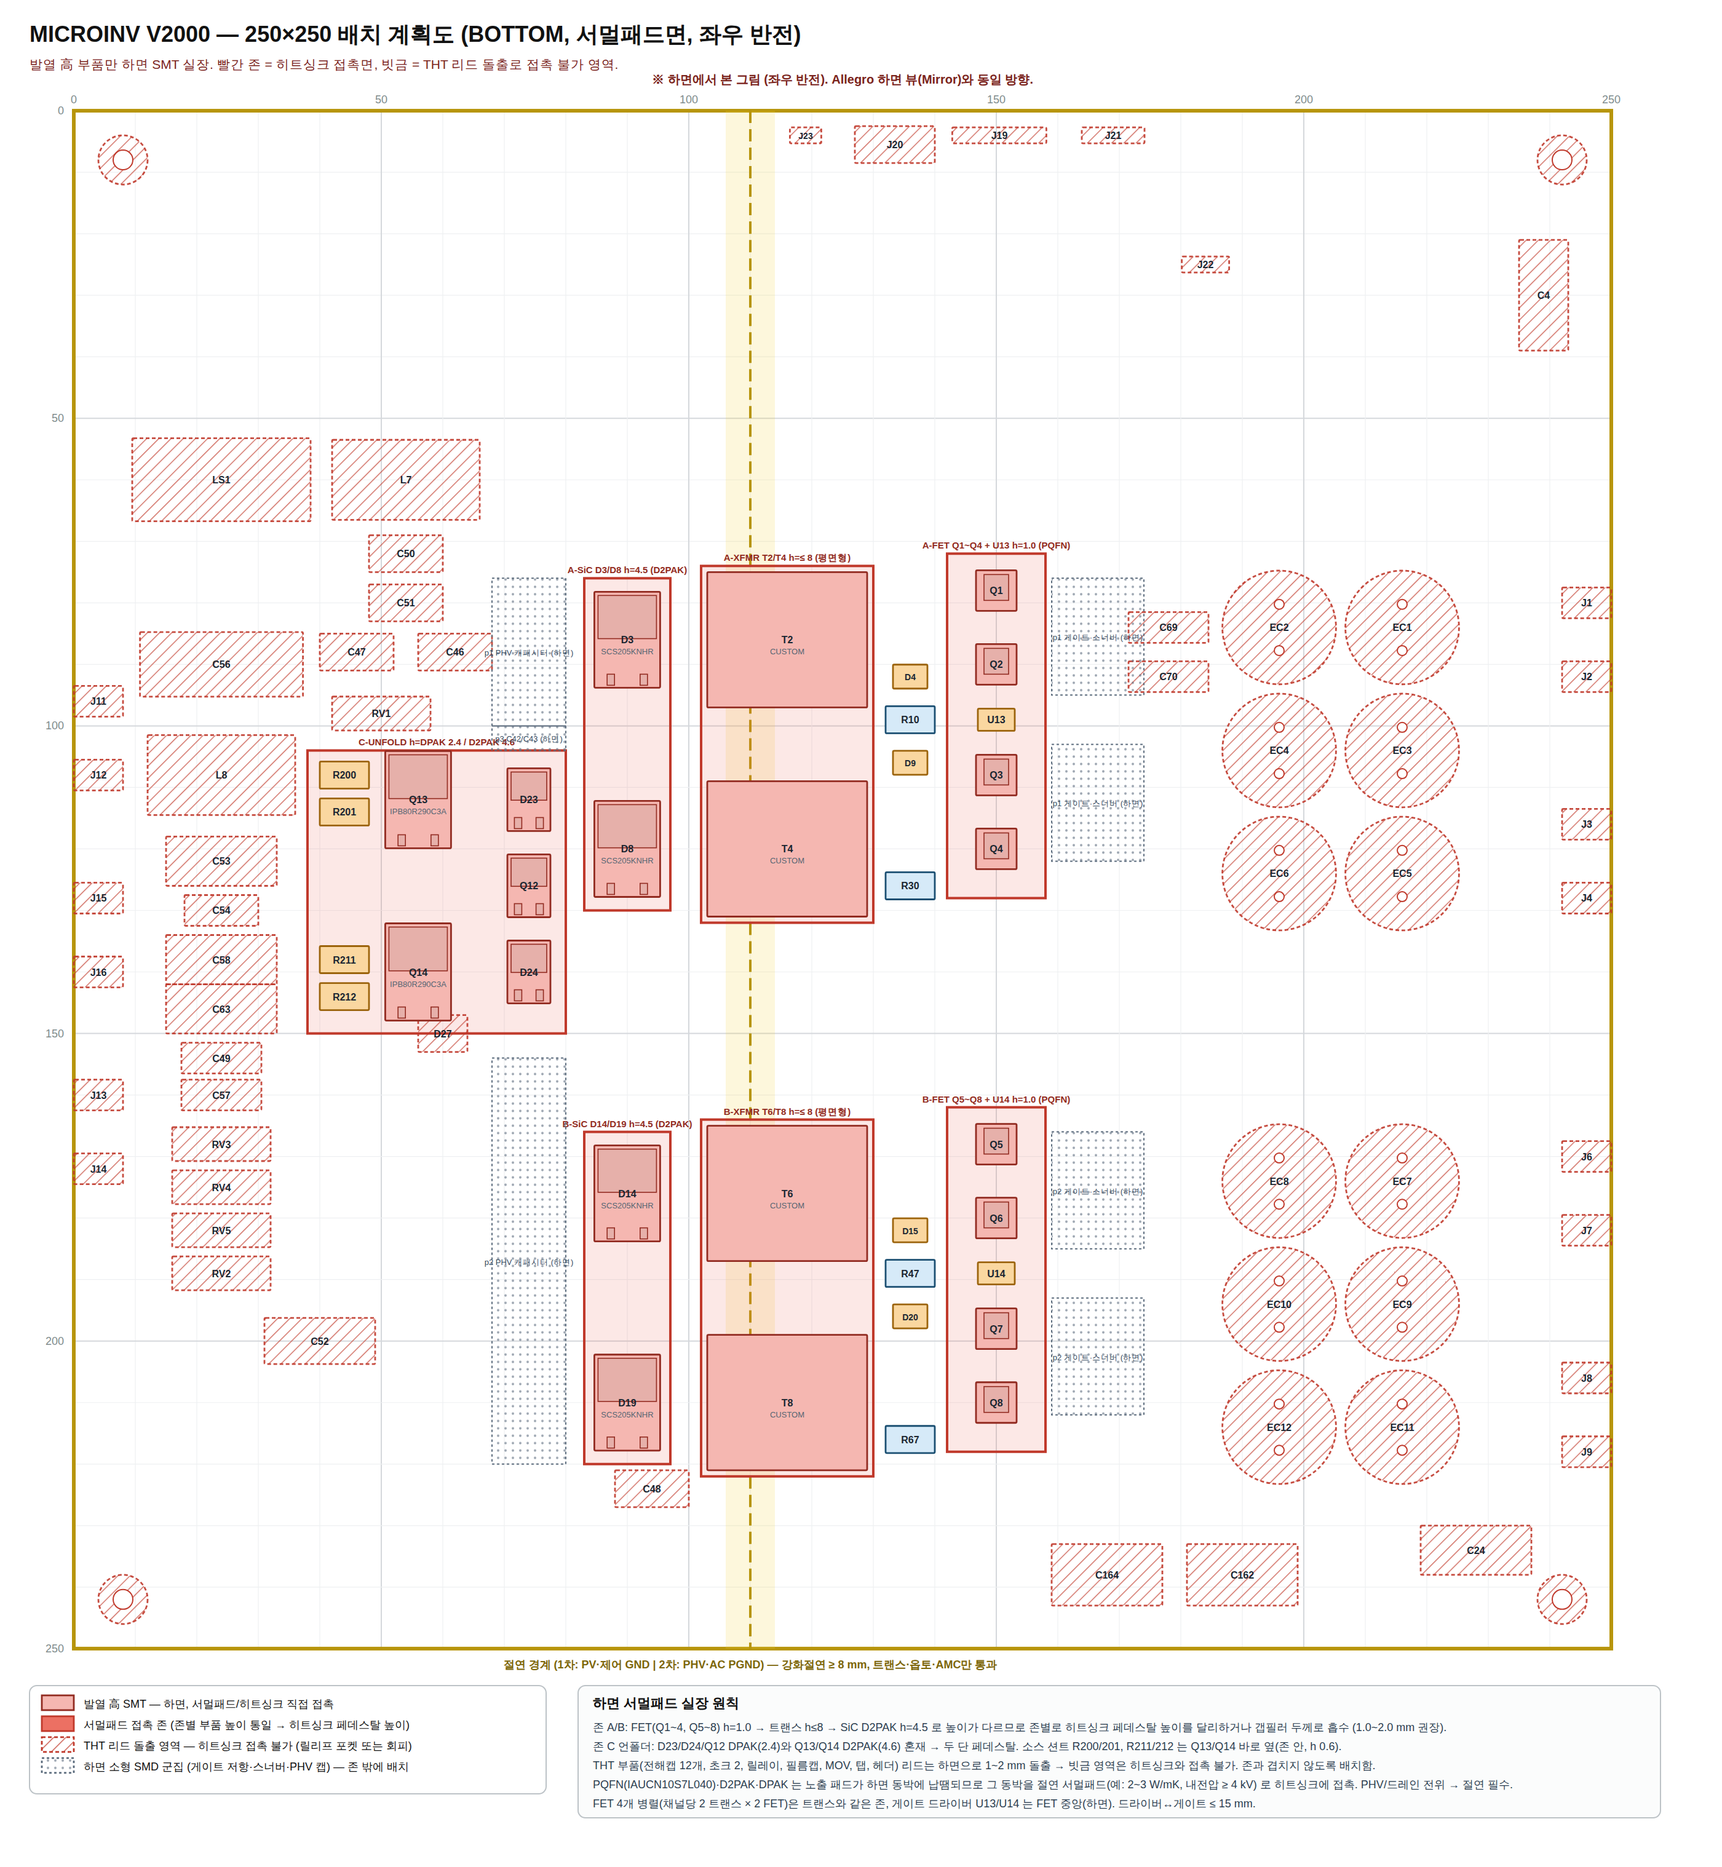
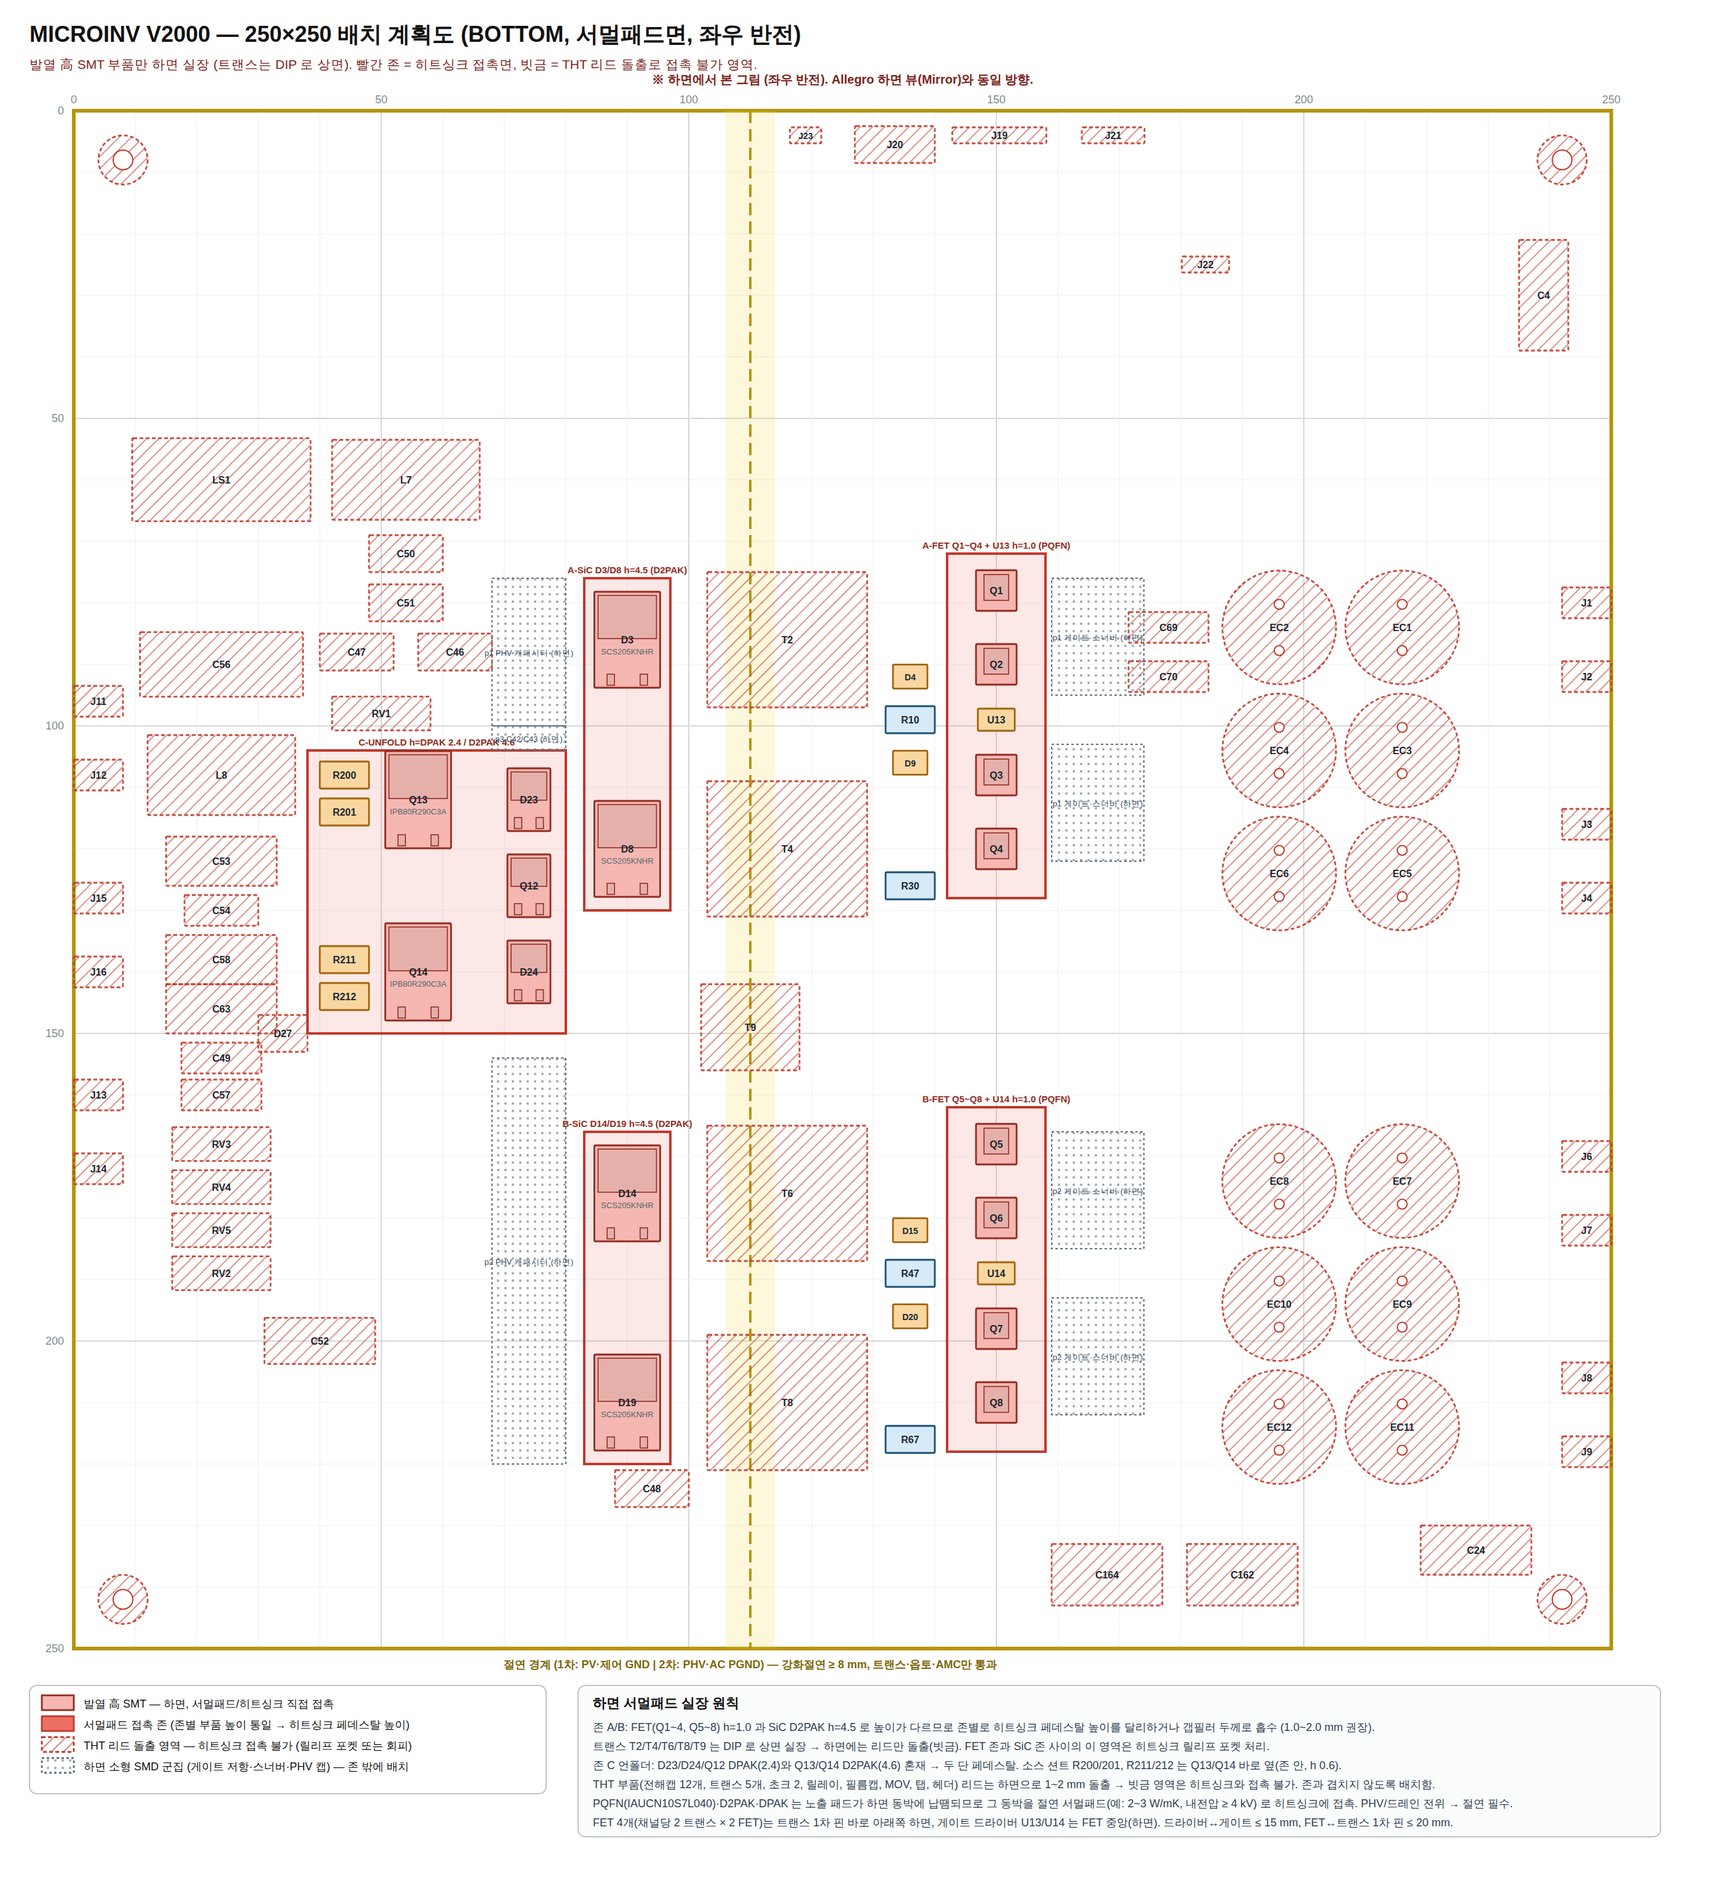
Move DIP transformers T2/T4/T6/T8/T9 to the top side
Reclassify the five CUSTOM transformers as through-hole parts on the top
side, drop the bottom-side transformer thermal zones, mark their lead
areas as heatsink relief on the bottom view, and update the counts and
notes in the README, CSV and placement draft.

Claude-Session: https://claude.ai/code/session_01G1AAHEhECbTe4wCo2m36hC

diff --git a/pcb/microinv_v2000/floorplan.py b/pcb/microinv_v2000/floorplan.py
@@ -79,7 +79,7 @@ put('D2', 72, 78); put('C69', 72, 84); put('C70', 72, 92)
 put('T1', 114, 82); put('T3', 114, 114)
 put('Q1', 100, 78, 0, 'BOTTOM'); put('Q2', 100, 90, 0, 'BOTTOM'); put('Q3', 100, 108, 0, 'BOTTOM'); put('Q4', 100, 120, 0, 'BOTTOM')
 put('U13', 100, 99, 0, 'BOTTOM')
-put('T2', 134, 86, 0, 'BOTTOM', 26, 22); put('T4', 134, 120, 0, 'BOTTOM', 26, 22)
+put('T2', 134, 86, 0, 'TOP', 26, 22); put('T4', 134, 120, 0, 'TOP', 26, 22)
 put('D3', 160, 86, 0, 'BOTTOM'); put('D8', 160, 120, 0, 'BOTTOM')
 put('D4', 114, 92, 0, 'BOTTOM'); put('D9', 114, 106, 0, 'BOTTOM')
 # --- aux band (primary side) ---
@@ -93,7 +93,7 @@ put('D13', 72, 168)
 put('T5', 114, 172); put('T7', 114, 204)
 put('Q5', 100, 168, 0, 'BOTTOM'); put('Q6', 100, 180, 0, 'BOTTOM'); put('Q7', 100, 198, 0, 'BOTTOM'); put('Q8', 100, 210, 0, 'BOTTOM')
 put('U14', 100, 189, 0, 'BOTTOM')
-put('T6', 134, 176, 0, 'BOTTOM', 26, 22); put('T8', 134, 210, 0, 'BOTTOM', 26, 22)
+put('T6', 134, 176, 0, 'TOP', 26, 22); put('T8', 134, 210, 0, 'TOP', 26, 22)
 put('D14', 160, 176, 0, 'BOTTOM'); put('D19', 160, 210, 0, 'BOTTOM')
 put('D15', 114, 182, 0, 'BOTTOM'); put('D20', 114, 196, 0, 'BOTTOM')
 put('C162', 60, 238); put('C164', 82, 238)
@@ -108,7 +108,7 @@ put('Q13', 194, 112, 0, 'BOTTOM'); put('Q14', 194, 140, 0, 'BOTTOM')
 put('R200', 206, 108, 0, 'BOTTOM'); put('R201', 206, 114, 0, 'BOTTOM'); put('R211', 206, 138, 0, 'BOTTOM'); put('R212', 206, 144, 0, 'BOTTOM')
 put('U1', 176, 126)  # top, gate logic for Q13/Q14
 put('R79', 160, 110); put('R81', 160, 116); put('R188', 160, 122); put('R82', 160, 130); put('R83', 160, 136)
-put('D25', 152, 150); put('D26', 158, 150); put('D27', 190, 150); put('D28', 176, 150); put('Q9', 182, 150)
+put('D25', 152, 150); put('D26', 158, 150); put('D27', 216, 150); put('D28', 176, 150); put('Q9', 182, 150)
 # --- AC filter / output (top, mostly THT) ---
 put('TH1', 188, 98); put('RV1', 200, 98); put('C46', 188, 88); put('C47', 204, 88)
 put('C50', 196, 72); put('C51', 196, 80); put('L7', 196, 60); put('LS1', 226, 60)
@@ -138,8 +138,8 @@ CLUSTERS = [
 ]
 # ---- thermal-pad contact zones on the BOTTOM (top-view coords): (x1,y1,x2,y2,label,height) ----
 ZONES = [
- (92, 72, 108, 128, 'A-FET  Q1~Q4 + U13', '1.0 (PQFN)'), (120, 74, 148, 132, 'A-XFMR T2/T4', '≤ 8 (평면형)'), (153, 76, 167, 130, 'A-SiC D3/D8', '4.5 (D2PAK)'),
- (92, 162, 108, 218, 'B-FET  Q5~Q8 + U14', '1.0 (PQFN)'), (120, 164, 148, 222, 'B-XFMR T6/T8', '≤ 8 (평면형)'), (153, 166, 167, 220, 'B-SiC D14/D19', '4.5 (D2PAK)'),
+ (92, 72, 108, 128, 'A-FET  Q1~Q4 + U13', '1.0 (PQFN)'), (153, 76, 167, 130, 'A-SiC D3/D8', '4.5 (D2PAK)'),
+ (92, 162, 108, 218, 'B-FET  Q5~Q8 + U14', '1.0 (PQFN)'), (153, 166, 167, 220, 'B-SiC D14/D19', '4.5 (D2PAK)'),
  (170, 104, 212, 150, 'C-UNFOLD', 'DPAK 2.4 / D2PAK 4.6'),
 ]
 BARRIER_X = 140.0
@@ -149,9 +149,10 @@ ANT_KEEPOUT = (20, 0, 50, 10)
 HIGH = {'Q1','Q2','Q3','Q4','Q5','Q6','Q7','Q8','Q12','Q13','Q14','D3','D8','D14','D19','D23','D24','T2','T4','T6','T8'}
 MED = {'Q10','T9','U13','U14','U15','L12','D4','D9','D15','D20','D2','D13','R6','R43','R79','R81','R188','R82','R83','R90','R96','R106',
        'R200','R201','R211','R212','R219','R228','L7','L8','LS1','D25','D26','TH1','RV1','RV2','RV3','RV4','RV5','T1','T3','T5','T7'} | {f'EC{i}' for i in range(1, 13)}
+THT_REFS = {'T2', 'T4', 'T6', 'T8', 'T9'}  # DIP 타입 트랜스포머 (사용자 확인)
 def mount(ref):
     psm = parts[ref]['psm']
-    if psm in THT_PSM: return 'THT'
+    if psm in THT_PSM or ref in THT_REFS: return 'THT'
     if psm == 'USB-C_16PIN': return 'SMT(+THT 고정핀)'
     return 'SMT'
 def heat(ref):
@@ -225,6 +226,14 @@ def draw_part(ref, mirror, ghost=False, tht_mark=False):
         out.append(rect_px(X(x - 2.0), Y(y - 2.6), 4.0 * SC, 4.2 * SC, fill='#e6b0aa', stroke=stroke, stroke_width=0.8))
     if not ghost and not tht_mark and psm == '250T-1':
         out.append(rect_px(X(x - (w / 2 + 2.5) if not mirror else x + w / 2 - 0.5), Y(y - 1.2), 3.0 * SC, 2.4 * SC, fill='#aab7b8', stroke='#566573', stroke_width=0.8))
+    if not ghost and not tht_mark and ref in THT_REFS:
+        n = parts[ref]['npins']; per_side = max(2, n // 2)
+        for i in range(per_side):
+            py = y - (per_side - 1) * 2.5 / 2 + i * 2.5
+            for px in (x - w / 2 + 2.0, x + w / 2 - 2.0):
+                out.append(circ_px(X(px), Y(py), 0.9 * SC, fill='#fff', stroke=stroke, stroke_width=1))
+        out.append(text(X(x - w / 2 + 2.0), Y(y - h / 2) - 3, '1차', size=6, fill='#7d6608'))
+        out.append(text(X(x + w / 2 - 2.0), Y(y - h / 2) - 3, '2차', size=6, fill='#7d6608'))
     if not ghost and not tht_mark and psm == 'ESP32-S3':
         out.append(rect_px(X(x - w / 2), Y(y - h / 2), w * SC, 6.0 * SC, fill='#f9e79f', stroke=stroke, stroke_width=0.8))
         out.append(text(X(x), Y(y - h / 2 + 4), '안테나', size=7, fill='#7d6608'))
@@ -342,7 +351,7 @@ def top_view():
         parts_svg.append(text(X(0) - 28, Y((y1 + y2) / 2), lab, size=8, anchor='middle', fill='#1a5276', weight='bold', rot=-90))
     for (x, y, lab) in [(150, 30, '2차측 게이트 로직 (p8)'), (150, 75.5, 'PHV 정류 (하면 D3/D8, D14/D19)'), (204, 38, 'AC 필터·릴레이·보호 (THT, 상면)'), (150, 220, '그리드 센싱 (AMC3301/3302, 절연 경계)')]:
         parts_svg.append(text(X(x), Y(y), lab, size=7.5, anchor='start', fill='#1a5276', weight='bold'))
-    leg = legend([('#f5b7b1', '#922b21', 'none', '발열 高 → 하면 실장, 서멀패드 접촉 (상면도에서는 점선 고스트)'),
+    leg = legend([('#f5b7b1', '#922b21', 'none', '발열 高 SMT → 하면, 서멀패드 접촉 (상면도에서는 점선 고스트) / 트랜스는 DIP 상면'),
                   ('#fad7a0', '#9c640c', 'none', '발열 中 → 상면, 동박·비아로 방열'),
                   ('#d6eaf8', '#1b4f72', 'none', 'SMT 일반 (상면)'),
                   ('#d5f5e3', '#196f3d', '6 3', 'THT(DIP) 부품 — 점선 외곽, 리드가 하면으로 돌출'),
@@ -352,7 +361,8 @@ def top_view():
         '보드 250 × 250 mm, 4 코너 M3 (J5/J10/J17/J18 = FGND 프레임 접지 패드 겸용).  좌측 에지 PV_A/PV_B Faston 탭, 우측 에지 AC L/N/PE 탭.',
         '전력 흐름 좌→우: PV 탭 → 입력 전해캡(THT, 18×40) → 플라이백(하면 FET·트랜스·SiC) → PHV → 언폴더(하면) → CM 초크·X/Y캡·릴레이·퓨즈(THT) → AC 탭.',
         '절연 경계 x=140: T2/T4/T6/T8/T9, ISO1~4, U23/U24 만 경계에 걸침. ESP32 안테나는 보드 에지 밖으로 향하게, 금속 케이스면 외부 안테나 검토.',
-        'CUSTOM 트랜스(T2/T4/T6/T8) 26×22 · T9 16×14 는 자리표시(placeholder). 실제 치수·높이 확정 후 존 크기 조정 (높이 > 8 mm 이면 상면 이동 또는 히트싱크 포켓).',
+        '트랜스 T2/T4/T6/T8(26×22) · T9(16×14) 는 DIP 타입으로 상면 실장 (자리표시 크기, 실제 풋프린트로 교체). 1차 핀은 하면 FET 쪽(좌), 2차 핀은 SiC 쪽(우)으로 향하게.',
+        '트랜스 코어 방열: 상면이므로 서멀패드가 아니라 상부 커버 갭필러/포팅으로 처리. 리드가 하면으로 돌출하므로 하면 히트싱크는 트랜스 영역을 피함.',
     ]
     parts_svg.append(leg)
     parts_svg.append(notes_box('배치 원칙 (상면)', notes, 470, Y(250) + 30, 880))
@@ -376,17 +386,18 @@ def bottom_view():
                   ('url(#lead)', '#c0392b', '3 2', 'THT 리드 돌출 영역 — 히트싱크 접촉 불가 (릴리프 포켓 또는 회피)'),
                   ('url(#dots)', '#5d6d7e', '2 2', '하면 소형 SMD 군집 (게이트 저항·스너버·PHV 캡) — 존 밖에 배치')], 24, Y(250) + 30)
     notes = [
-        '존 A/B: FET(Q1~4, Q5~8) h=1.0 → 트랜스 h≤8 → SiC D2PAK h=4.5 로 높이가 다르므로 존별로 히트싱크 페데스탈 높이를 달리하거나 갭필러 두께로 흡수 (1.0~2.0 mm 권장).',
+        '존 A/B: FET(Q1~4, Q5~8) h=1.0 과 SiC D2PAK h=4.5 로 높이가 다르므로 존별로 히트싱크 페데스탈 높이를 달리하거나 갭필러 두께로 흡수 (1.0~2.0 mm 권장).',
+        '트랜스 T2/T4/T6/T8/T9 는 DIP 로 상면 실장 → 하면에는 리드만 돌출(빗금). FET 존과 SiC 존 사이의 이 영역은 히트싱크 릴리프 포켓 처리.',
         '존 C 언폴더: D23/D24/Q12 DPAK(2.4)와 Q13/Q14 D2PAK(4.6) 혼재 → 두 단 페데스탈. 소스 션트 R200/201, R211/212 는 Q13/Q14 바로 옆(존 안, h 0.6).',
-        'THT 부품(전해캡 12개, 초크 2, 릴레이, 필름캡, MOV, 탭, 헤더) 리드는 하면으로 1~2 mm 돌출 → 빗금 영역은 히트싱크와 접촉 불가. 존과 겹치지 않도록 배치함.',
+        'THT 부품(전해캡 12개, 트랜스 5개, 초크 2, 릴레이, 필름캡, MOV, 탭, 헤더) 리드는 하면으로 1~2 mm 돌출 → 빗금 영역은 히트싱크와 접촉 불가. 존과 겹치지 않도록 배치함.',
         'PQFN(IAUCN10S7L040)·D2PAK·DPAK 는 노출 패드가 하면 동박에 납땜되므로 그 동박을 절연 서멀패드(예: 2~3 W/mK, 내전압 ≥ 4 kV) 로 히트싱크에 접촉. PHV/드레인 전위 → 절연 필수.',
-        'FET 4개 병렬(채널당 2 트랜스 × 2 FET)은 트랜스와 같은 존, 게이트 드라이버 U13/U14 는 FET 중앙(하면). 드라이버↔게이트 ≤ 15 mm.',
+        'FET 4개(채널당 2 트랜스 × 2 FET)는 트랜스 1차 핀 바로 아래쪽 하면, 게이트 드라이버 U13/U14 는 FET 중앙(하면). 드라이버↔게이트 ≤ 15 mm, FET↔트랜스 1차 핀 ≤ 20 mm.',
     ]
     parts_svg.append(leg)
     parts_svg.append(notes_box('하면 서멀패드 실장 원칙', notes, 470, Y(250) + 30, 880))
     return wrap('\n'.join(parts_svg), 1380, Y(250) + 30 + 30 + 15.5 * len(notes) + 40,
                 'MICROINV V2000 — 250×250 배치 계획도 (BOTTOM, 서멀패드면, 좌우 반전)',
-                '발열 高 부품만 하면 SMT 실장. 빨간 존 = 히트싱크 접촉면, 빗금 = THT 리드 돌출로 접촉 불가 영역.')
+                '발열 高 SMT 부품만 하면 실장 (트랜스는 DIP 로 상면). 빨간 존 = 히트싱크 접촉면, 빗금 = THT 리드 돌출로 접촉 불가 영역.')
 
 open('out/floorplan_top.svg', 'w', encoding='utf-8').write(top_view())
 open('out/floorplan_bottom.svg', 'w', encoding='utf-8').write(bottom_view())

diff --git a/pcb/microinv_v2000/README.md b/pcb/microinv_v2000/README.md
@@ -14,10 +14,10 @@
 
 | 구분 | 수량 | 내용 |
 |---|---|---|
-| SMT | 587 | 상면 552 + 하면 35(개별) + 하면 군집(게이트·스너버·PHV 캡) |
-| THT(DIP) | 63 | 전해캡 EC1~12 (18×40), CM 초크 L7/L8, 릴레이 LS1, 필름캡 19개, MOV 5개, Faston 탭 14개, 헤더 5개, FGND 4개, GDT D27 |
+| SMT | 582 | 상면 551 + 하면 31(개별) + 하면 군집(게이트·스너버·PHV 캡) |
+| THT(DIP) | 68 | 전해캡 EC1~12 (18×40), **트랜스 T2/T4/T6/T8/T9 (DIP, 상면)**, CM 초크 L7/L8, 릴레이 LS1, 필름캡 19개, MOV 5개, Faston 탭 14개, 헤더 5개, FGND 4개, GDT D27 |
 | 하이브리드 | 1 | USB-C U18 (SMT + THT 고정핀) |
-| 발열 高 (하면·서멀패드) | 21 | Q1~Q8, Q12~Q14, D3/D8/D14/D19 (SiC), D23/D24 (SCR), T2/T4/T6/T8 (메인 트랜스, 평면형 전제) |
+| 발열 高 | 21 | 하면 서멀패드 17: Q1~Q8, Q12~Q14, D3/D8/D14/D19 (SiC), D23/D24 (SCR) · 상면 DIP 4: T2/T4/T6/T8 (메인 트랜스) |
 | 발열 中 (상면, 동박·비아 방열) | 55 | U13/U14 드라이버, U15/Q10/L12 AUX, 션트·스너버 2512, 전해캡, 초크, 릴레이, MOV, TVS |
 
 ## 2. 하면 서멀패드 존
@@ -25,11 +25,12 @@
 | 존 | 부품 | 부품 높이 | 비고 |
 |---|---|---|---|
 | A-FET / B-FET | Q1~Q4 + U13 / Q5~Q8 + U14 | 1.0 mm (PQFN 5×6) | 드라이버를 FET 중앙에, 게이트 ≤ 15 mm |
-| A-XFMR / B-XFMR | T2, T4 / T6, T8 | ≤ 8 mm (평면형 가정) | CUSTOM PSM 자리표시 26×22. 높이 > 8 mm 이면 상면 이동 또는 히트싱크 포켓 |
 | A-SiC / B-SiC | D3, D8 / D14, D19 | 4.5 mm (D2PAK) | PHV 정류, 캐소드 탭 = PHV 전위 → 절연 서멀패드 필수 |
 | C-UNFOLD | D23, D24, Q12 (DPAK) + Q13, Q14 (D2PAK) + 소스 션트 R200/201/211/212 | 2.4 / 4.6 mm | 두 단 페데스탈 또는 갭필러 |
 
 존별 높이가 다르므로 히트싱크(케이스) 쪽에 페데스탈 높이를 달리하거나 1~2 mm 갭필러로 흡수. THT 리드가 돌출하는 영역(빗금)은 히트싱크와 접촉 불가 → 존과 겹치지 않게 배치했음.
+
+트랜스 T2/T4/T6/T8/T9 는 DIP 타입으로 **상면** 실장. FET 존(1차 핀 쪽)과 SiC 존(2차 핀 쪽) 사이에 두고, 하면의 트랜스 리드 영역은 히트싱크 릴리프 포켓으로 처리. 코어 방열은 상부 커버 갭필러 또는 포팅으로.
 
 ## 3. Enphase IQ7 대비
 
@@ -49,6 +50,6 @@
 3. **R219 / R228 (20 mΩ 2512)** 가 `AC_L_IN`, `AC_N_IN` 을 같은 노드(N17987925, U10 IN1+, D42 로 VDDA_3V3/GND 클램프)에 연결 → L–N 40 mΩ 단락 형태이며 절연 경계를 넘음. 20 MΩ 분압 의도라면 절연 정격 저항 체인으로 변경.
 4. **C162 / C164 (0.33 µF X2)** 가 `PV_B+` ↔ `I_GRID_LK`(F2, J18 FGND) 연결. PV+ → 섀시 Y 경로이면 Y1/Y2 등급·위치(양면에 걸침) 확인. J18 은 GND_EARTH 가 아니라 I_GRID_LK.
 5. **절연 부품 연면거리**: ELD207(mini-flat), FOD817D3SD 는 400 V 급 강화절연(≥ 8 mm)에 부족할 수 있음. MOC3063S(SMD DIP-6), AMC3301/3302(SOIC-16W) 는 8 mm 급.
-6. **CUSTOM 트랜스 T2/T4/T6/T8/T9** 가 8.4×7.2 mm 자리표시 PSM(XFMR185P838X721X550-8) 사용 → 실제 풋프린트로 교체 후 배치.
+6. **CUSTOM 트랜스 T2/T4/T6/T8/T9** 가 SMD CT 와 같은 8.4×7.2 mm PSM(XFMR185P838X721X550-8) 을 쓰고 있음 → DIP 풋프린트로 교체 후 배치 (도면은 26×22 / 16×14 자리표시).
 7. DNP 표시 부품: RV2, D37, C52 (VALUE = NC).
 8. ESP32-S3-WROOM 내장 안테나: 금속 케이스 안에서는 동작 불가 → 외부 안테나 모듈(-1U) 또는 케이스 창 검토.
